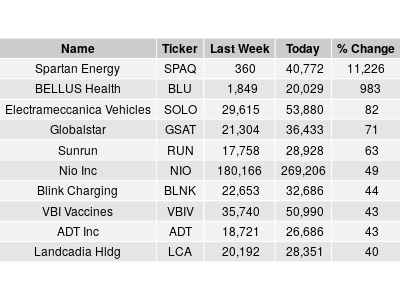
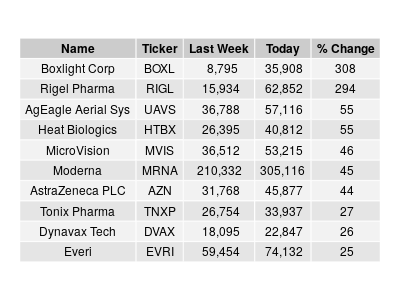
update jul 19

diff --git a/README.md b/README.md
@@ -1,5 +1,5 @@
 # Robinhood at a Glance
-### -- July 12, 2020
+### -- July 19, 2020
 
 This is a preamble to full scale modeling of the Robinhood popularity data using machine learning. Before that, I want to 
 take a glance of the current market as seen in the Robinhood community. Here I use the dataset provided in [*robintrack*](https://robintrack.net), 
@@ -19,18 +19,19 @@ Another aspect to keep in mind is that popularity doesn't equate to exposure. A 
 Thus, there is no direct and necessary relationship between popularity and sentiment on a stock. In fact, the usefulness of this particular data point is to be evaluated and determined by a suitable ML model. On some stocks, a large popularity may be a good predictor of future return while it may have little value on others. 
 
 
-## Stocks held by at least 100k accounts [July 12th, 2020]
+## Stocks held by at least 100k accounts [July 19, 2020]
 Just a quick scan of the most popular holdings. Notice that some of these are ETF, e.g. `VOO`, `SPY`. 
-`"F"    "GE"   "AAL"  "DIS"  "DAL"  "AAPL" "MSFT" "CCL"  "GPRO" "ACB"  "TSLA" "PLUG" "NCLH" "AMZN" "BAC" 
-"SNAP" "BA"   "FIT"  "UAL"  "NIO"  "UBER" "HEXO" "CGC"  "BABA" "RCL"  "FB"   "TWTR" "INO"  "AMD"  "CRON"
-"SAVE" "ZNGA" "KO"   "MRNA" "T"    "TOPS" "SBUX" "LUV"  "APHA" "MRO"  "GNUS" "JBLU" "MGM"  "OGI"  "NFLX"
-"MFA"  "XOM"  "USO"  "UCO"  "HTZ"  "IVR"  "SPCE" "AMC"  "NVDA" "GM"   "WKHS" "NOK"  "VOO"  "NRZ"  "CPE" 
-"PLAY" "PFE"  "PENN" "CPRX" "SQ"   "SPY"  "TLRY" "SIRI" "NKE"  "WORK" "IDEX" "VSLR"`
+`"F"    "GE"   "AAL"  "DIS"  "DAL"  "AAPL" "MSFT" "CCL"  "GPRO" "TSLA" "ACB" 
+"PLUG" "AMZN" "NCLH" "BAC"  "SNAP" "FIT"  "BA"   "UAL"  "MRNA" "NIO"  "HEXO"
+"UBER" "BABA" "CGC"  "FB"   "RCL"  "TWTR" "AMD"  "CRON" "INO"  "ZNGA" "NFLX"
+"SAVE" "KO"   "T"    "TOPS" "SBUX" "APHA" "LUV"  "MRO"  "JBLU" "MGM"  "GNUS"
+"OGI"  "XOM"  "MFA"  "USO"  "SPCE" "UCO"  "HTZ"  "IVR"  "NVDA" "AMC"  "GM"  
+"WKHS" "NOK"  "VOO"  "PFE"  "NRZ"  "SQ"   "PLAY" "CPRX" "SPY"  "CPE"  "WORK"
+"SIRI" "TLRY" "PENN" "NKE"  "VSLR"`
 
 
 
-
-## Biggest Increase Last Week [Jul 12th, 2020]
+## Biggest Increase Last Week [Jul 19, 2020]
 These 10 stocks saw the biggest percent increase in user holdings last week. 
 
 
@@ -44,7 +45,7 @@ These 10 stocks saw the biggest percent increase in user holdings last week.
 
 
 
-## Biggest Decrease Last Week [Jul 12th, 2020]
+## Biggest Decrease Last Week [Jul 19, 2020]
 Likewise, these are the biggest losers last week.
 
 <p align="center"> 
@@ -53,7 +54,7 @@ Likewise, these are the biggest losers last week.
 
 
 
-## Top 10 Holdings [Jul 12th, 2020]
+## Top 10 Holdings [Jul 19, 2020]
 These are the favorites of the Robinhood community. 
 
 
@@ -65,15 +66,6 @@ These are the favorites of the Robinhood community.
 
 ![top_ten](plots/Plot_Top_10.png)
 
-
-
-
-## Largest % increase since Mar 20 [Jul 12th, 2020]
-Holdings in these stocks have gone up mutiple times. I use March 20 as the base level for comparison since that's the bottom of this bear market -- so far. 
-
-<p align="left"> 
-<img src="plots/LargestIncr_since_Mar20.png" width="100%">
-</p>
 
 
 
